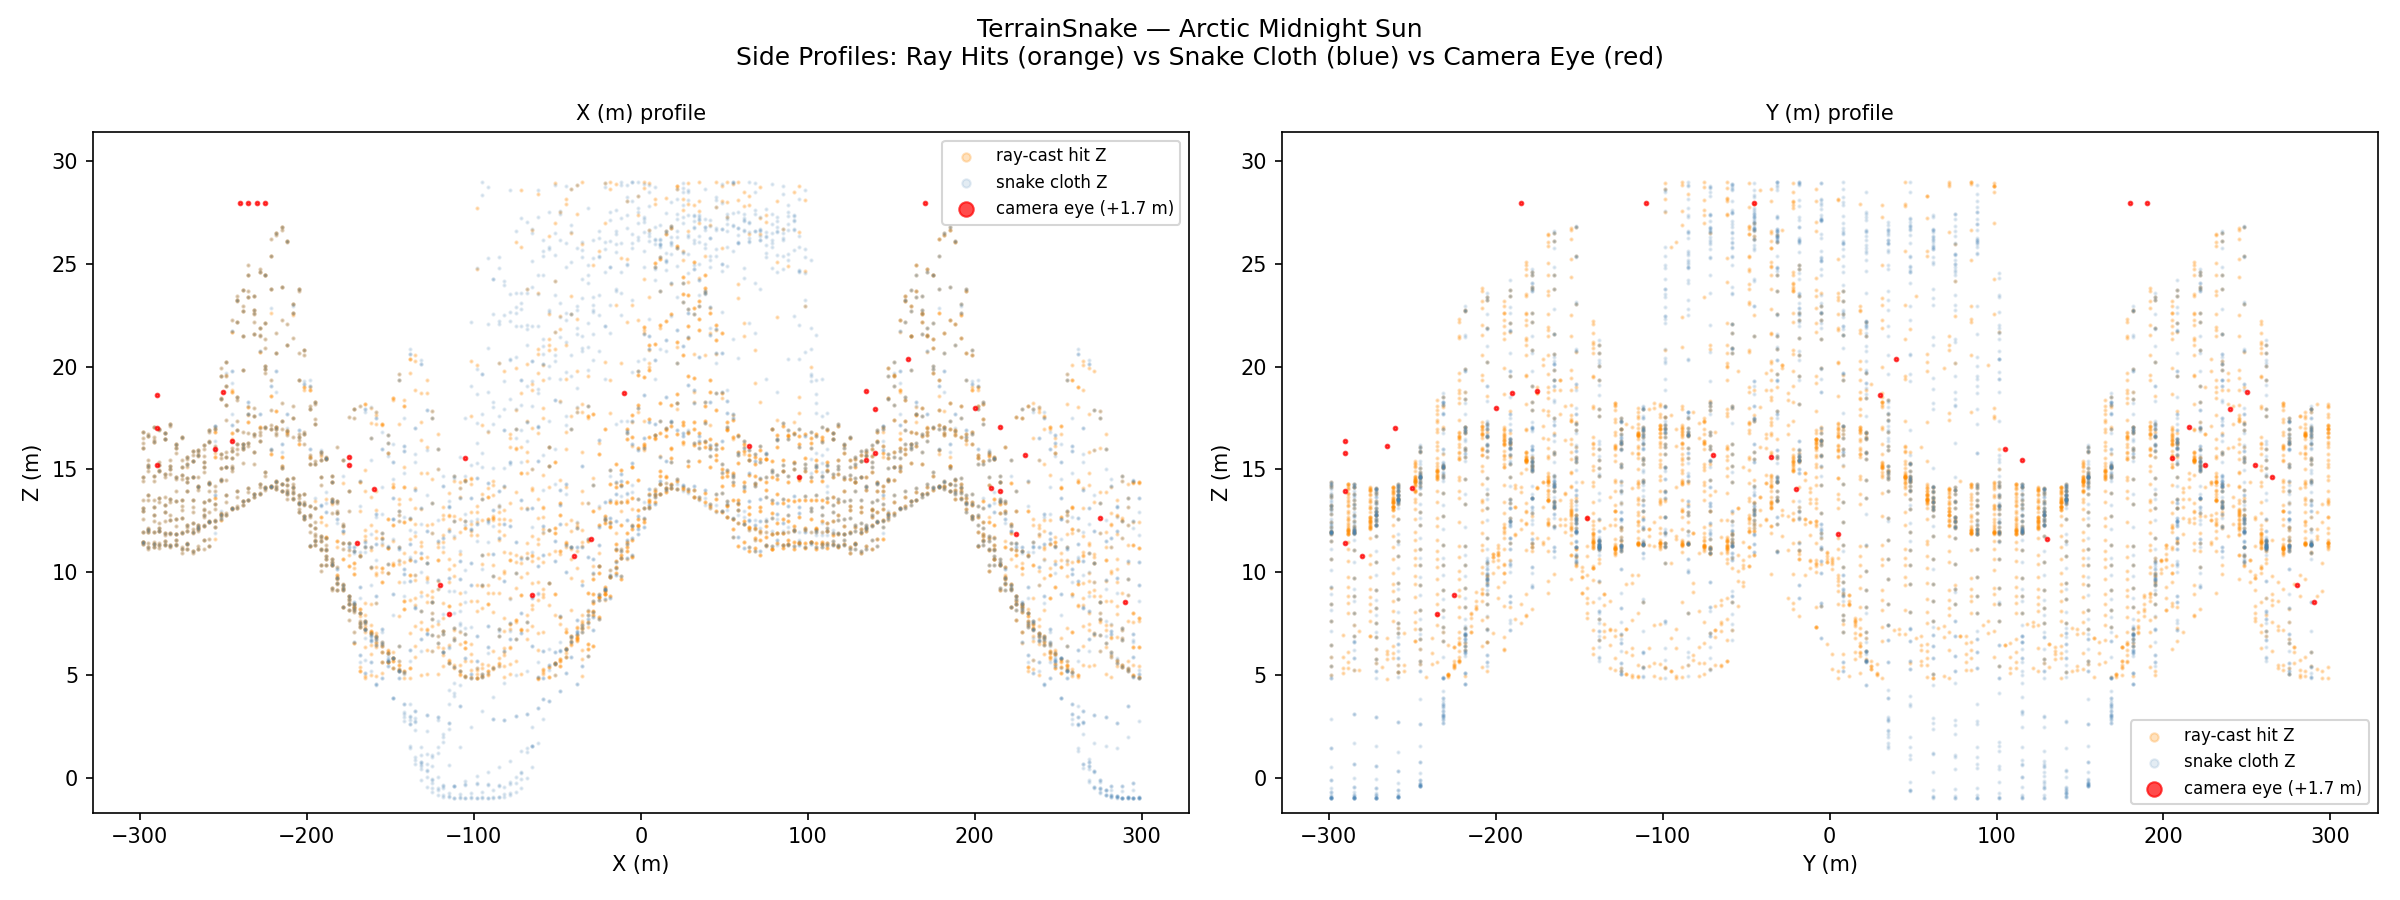
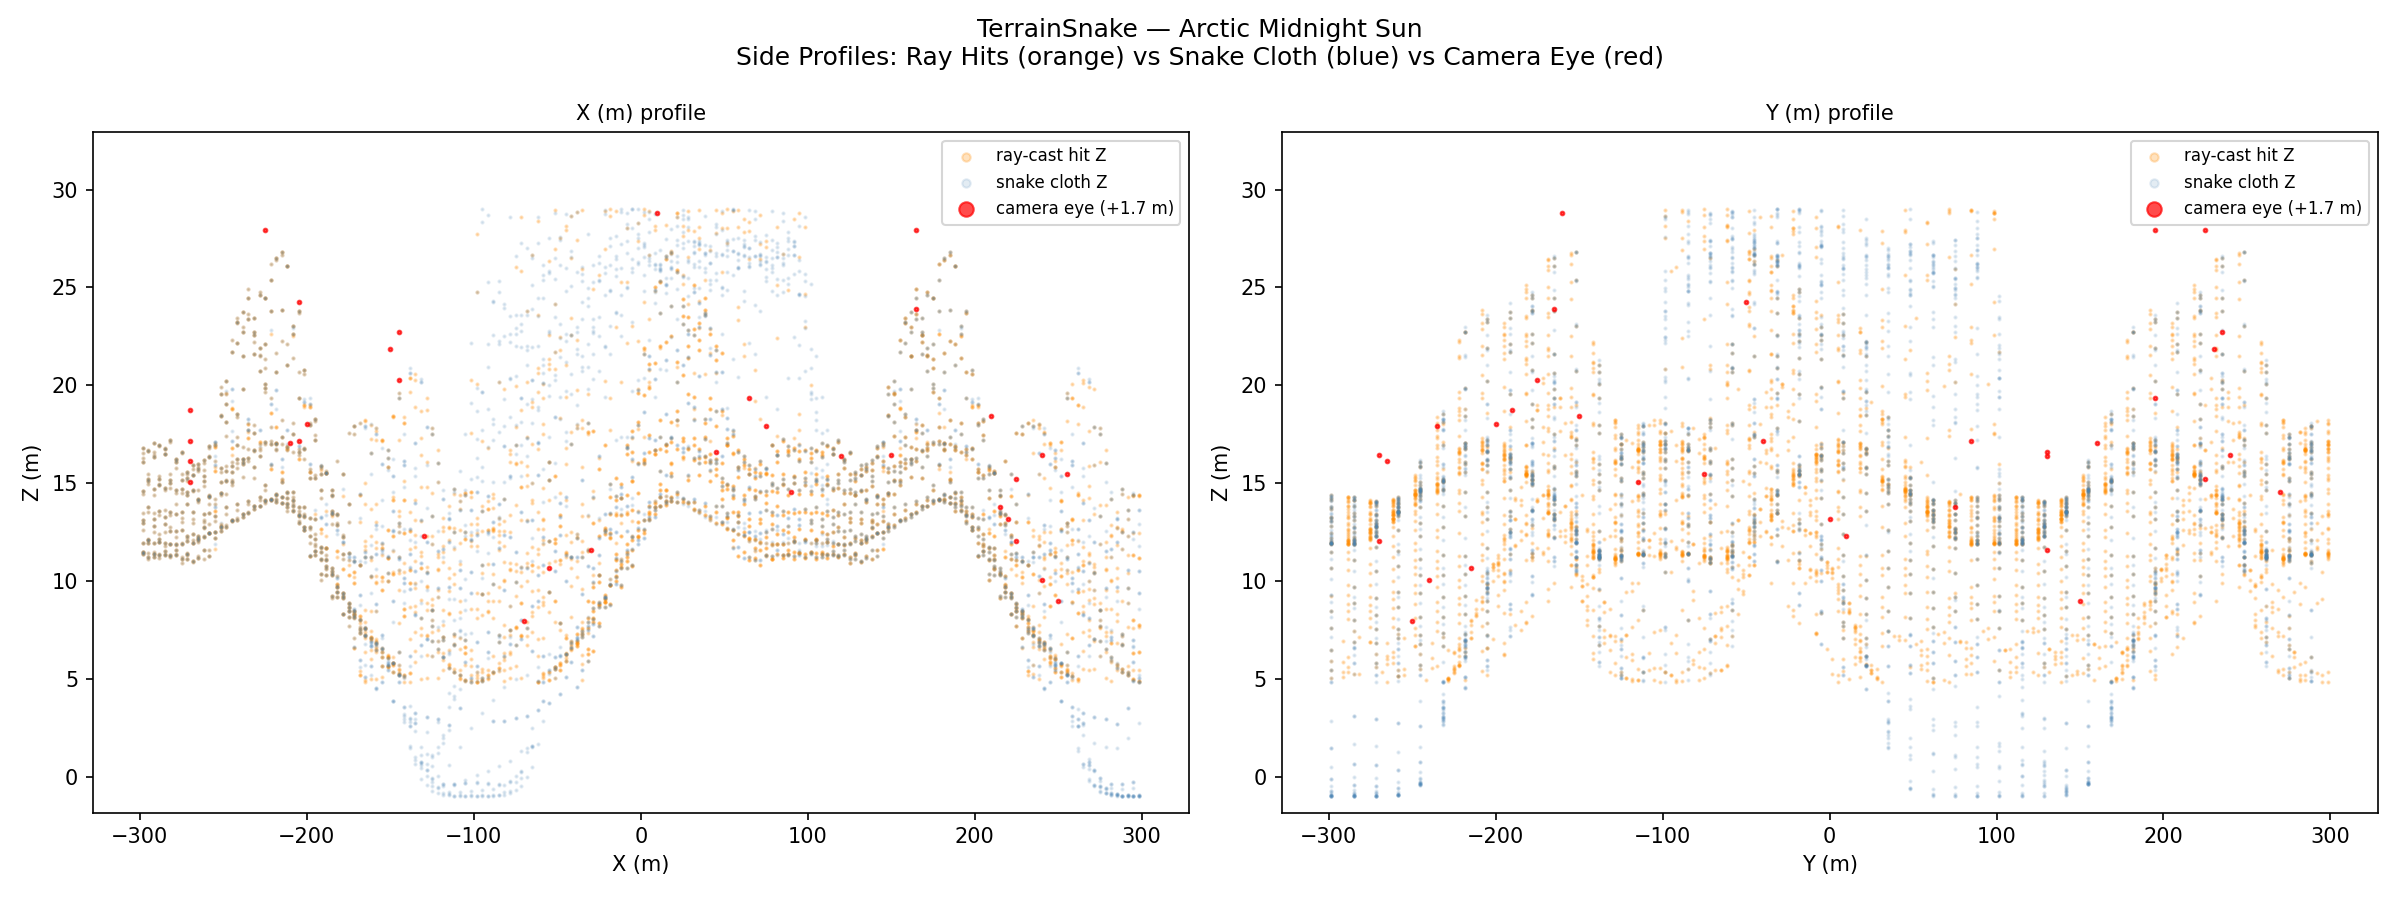
docs(forest_paths_v3): black frame fix + voxel walkability viz results
- 20260511 result MD for forest_paths terrain v3: documents boundary-margin
  black frame fix (5574348), path_plan --blend fix (303705b), figure_6
  voxel walkability overlay (9c73b6a), and waypoint coord fix (92fb5f3)
- Updated figures 1/2/5 with correct waypoint world positions (vg_res=20)
- New figure_6: green=628 walkable, red=243 excluded (102 boundary + 141 scatter)
- Black frame verification table: frame_0438 mean=45.7 ✅, frame_0767 mean=10.2 ✅

diff --git a/docs/20260511_WalkthroughRenderer_ForestPaths_Terrain_V3_Results.md b/docs/20260511_WalkthroughRenderer_ForestPaths_Terrain_V3_Results.md
@@ -1,0 +1,184 @@
+# Forest Paths Walkthrough — Terrain v3: Black Frame Fix + Voxel Walkability Viz
+
+**Scene**: `forest_paths/forest paths.blend` (334 MB)
+**Date**: 2026-05-11
+**Config**: `configs/terrain_scene.json` — TerrainSnake Phase 1+2, Held-Karp path, Cycles render
+**Run host**: local Linux + pip bpy 4.5 + Windows Blender 4.5.7 LTS (Cycles, OptiX)
+**GPU**: NVIDIA GeForce RTX 5090
+**Previous run**: [Terrain v2 (2026-05-07)](20260507_WalkthroughRenderer_ForestPaths_Terrain_V2_Results.md)
+**Commits**: `c5a2b8d` (boundary-margin filter), `f33b134` (path_plan --blend), `31e66e5` (figure_6), `e428a3d` (waypoint coord fix)
+
+---
+
+## Changes from v2
+
+| | v2 | v3 |
+|---|---|---|
+| Black frames | frame_0438, frame_0767 **completely black** | **fixed** — mean=45.7 / mean=10.2 ✅ |
+| Raw terrain candidates | 824 | **871** (heightmap rebuild) |
+| Scatter-blocked columns | −125 | **−141** |
+| Boundary margin filter | — | **−102** (outermost 1 coarse cell per edge) |
+| Walkable candidates | 699 | **628** |
+| path_plan Step 3 | no `--blend` → particle detection always 0 | **`--blend` passed** → particle scatter visible |
+| Visualization figure_6 | — | **voxel walkability overlay** (green=walkable, red=excluded) |
+| Waypoint world coords | bug: converted with fine res (3.33 BU) | **fixed**: converted with coarse vg_res (20 BU) |
+
+---
+
+## Root Cause: Black Frames
+
+frame_0438 and frame_0767 were completely black. Both mapped to coarse cell `(ix=6, iy=0)` at the southern scene boundary (Y=−290 BU, 10 BU from the ±300 BU edge).
+
+The Infinigen terrain truncates at scene boundaries with a **vertical cliff wall**. The TerrainSnake cloth settled on the cliff face (valid `terrain_z_floor`≈9), making the cell appear as a legitimate walkable column. The camera placed there looked directly into the opaque black `background` boundary mesh and void → fully black render.
+
+Why other detection methods failed:
+
+| Attempted fix | Why it failed |
+|---|---|
+| Heightmap gradient (slope filter) | Cloth settles on entire cliff top — adjacent cell Z values similar, gradient ≈0.12 |
+| `ray_cast` surface-normal filter | Infinigen geometry-nodes terrain: all face normals nz≈0.001 in pip-bpy (base mesh not updated by displacement) |
+| `valid_domain` / NaN check | Cliff face is real geometry — ray hits it, `terrain_z_floor` is NOT NaN |
+
+**Fix**: `_filter_terrain_by_boundary_margin` — removes the outermost `terrain_boundary_margin=1` coarse cells on all 4 sides. Infinigen terrain always ends in a cliff at scene boundaries; one coarse cell (20 BU) is a sufficient buffer.
+
+---
+
+## Pipeline
+
+Phase 1 reused cached `terrain_snake.npz`. Phase 2 rebuilt from voxel_grid step with the boundary-margin filter added.
+
+**path_plan Step 3 fix**: previously invoked without `--blend`, so pip-bpy ran with an empty scene and `_ptcl_blocked` was always empty (particle scatter instances invisible). Now `--blend` is passed → particle detection fully functional. This does not affect the current forest_paths path (no trees within 210 BU of the black-frame cell) but prevents future path-through-tree issues in dense scenes.
+
+---
+
+## Voxel Grid + Walkable (Terrain Mode)
+
+| Parameter | Value |
+|-----------|-------|
+| Grid resolution | 20.0 BU/voxel |
+| Grid size | 30 × 30 × 2 |
+| Scene bounds (XY) | [−300, −300] … [+300, +300] BU |
+| Scene bounds (Z) | −3.8 … +27.0 BU |
+| Fine heightmap | 180 × 180 @ 3.33 BU → downsampled to 30 × 30 @ 20 BU |
+| Raw terrain candidates | 871 / 900 columns |
+| −scatter-blocked (particle filter) | **−141** |
+| −mesh-blocked (parity filter) | −0 |
+| −boundary margin (margin=1) | **−102** |
+| **Walkable candidates** | **628** |
+
+Filter breakdown (from `voxel_grid_rebuild4.log`):
+
+```
+[VoxelGrid] Terrain mode: 871/900 columns (30×30×2, res=20.00 BU)
+[VoxelGrid] Terrain particle filter: -141 scatter-blocked, 730 remain
+[VoxelGrid] Terrain mesh filter: -0 inside mesh, 730 remain
+[VoxelGrid] Terrain boundary-margin filter: margin=1, -102 boundary, 628 remain
+```
+
+---
+
+## Path Planning — Held-Karp
+
+| Parameter | Value |
+|-----------|-------|
+| Algorithm | Held-Karp exact open-path TSP |
+| Waypoints | 20 (farthest-point sampling, seed 42) |
+| Path connectivity | 26-connected BFS |
+| Total path points | 505 |
+| Path Z range | 6.2 … 28.3 BU |
+| First waypoint | forced to scene camera cell (62, −7, 19) → coarse (18, 14, 0) |
+
+---
+
+## Render
+
+| Parameter | Value |
+|-----------|-------|
+| Frames | 1 000 |
+| FPS | 12 |
+| Duration | 83.3 s |
+| Resolution | 640 × 480 |
+| Render engine | Cycles |
+| Samples | 64 spp + adaptive (threshold 0.01, min 4) |
+| Denoiser | OPTIX (GPU-side, RTX 5090) |
+| Walk speed | 5.0 BU/s |
+| Camera height | 1.7 BU |
+
+### Black Frame Verification
+
+| Frame | Before fix | After fix |
+|-------|-----------|-----------|
+| frame_0438 | mean=0, black_pct=100% ❌ | **mean=45.7, black_pct=0%** ✅ |
+| frame_0767 | mean=0, black_pct=100% ❌ | **mean=10.2, black_pct=48%** ✅ (forest shade, normal) |
+
+---
+
+## Figures
+
+### Figure 0 — Initial vs Final Snake
+
+![figure_0](assets/forest_paths_terrain_v1/figure_0_initial_vs_final.png)
+
+### Figure 1 — Top-Down Coverage + Path
+
+![figure_1](assets/forest_paths_terrain_v1/figure_1_top_down.png)
+
+### Figure 2 — Side Profiles
+
+![figure_2](assets/forest_paths_terrain_v1/figure_2_side_profiles.png)
+
+### Figure 3 — Camera-Anchored Bridging Demo
+
+![figure_3](assets/forest_paths_terrain_v1/figure_3_bridging_demo.png)
+
+### Figure 4 — Convergence
+
+![figure_4](assets/forest_paths_terrain_v1/figure_4_convergence.png)
+
+### Figure 5 — Walkthrough Path (XY top-down)
+
+![figure_5](assets/forest_paths_terrain_v1/figure_5_walkthrough_path.png)
+
+### Figure 6 — Voxel Walkability Overlay *(new)*
+
+Green = walkable (628 cells). Red = valid terrain but excluded by filters (243 cells: 102 boundary margin + 141 scatter-blocked).
+
+![figure_6](assets/forest_paths_terrain_v1/figure_6_voxel_walkability.png)
+
+---
+
+## Walkthrough GIF
+
+![forest_paths terrain v3 walkthrough](assets/forest_paths_terrain_v1/forest_paths_terrain_v1_walkthrough.gif)
+
+*1 000 frames, 12 fps*
+
+## Combined GIF (path overlay)
+
+![forest_paths terrain v3 combined](assets/forest_paths_terrain_v1/forest_paths_terrain_v1_walkthrough_combined.gif)
+
+---
+
+## Files
+
+| Content | Path |
+|---------|------|
+| Voxel grid | `results/forest_paths_terrain_v1/voxel_grid.npz` |
+| Terrain snake | `results/forest_paths_terrain_v1/terrain_snake.npz` |
+| Walkable | `results/forest_paths_terrain_v1/walkable.npz` |
+| Path | `results/forest_paths_terrain_v1/path.npz` |
+| Run log | `results/forest_paths_terrain_v1/run.log` |
+| Rebuild log (final) | `results/forest_paths_terrain_v1/voxel_grid_rebuild4.log` |
+| Walkthrough blend | `results/forest_paths_terrain_v1/forest paths_walkthrough.blend` |
+| Walkthrough GIF | `docs/assets/forest_paths_terrain_v1/forest_paths_terrain_v1_walkthrough.gif` |
+| Combined GIF | `docs/assets/forest_paths_terrain_v1/forest_paths_terrain_v1_walkthrough_combined.gif` |
+| Combined MP4 | `docs/assets/forest_paths_terrain_v1/forest_paths_terrain_v1_walkthrough_combined.mp4` |
+
+---
+
+## Notes
+
+- **Cliff-edge black frames**: Infinigen terrain boundary = vertical cliff wall. Cloth Z at cliff face is numerically valid, but camera placed there faces void → black render. Boundary margin is the only reliable fix — ray_cast normals and heightmap gradients both fail to distinguish cliff-top from flat terrain in pip-bpy.
+- **Forest areas marked non-walkable**: The particle filter uses the full tree bounding box (`max(dimensions) * 0.5`), which includes the canopy. At 20 BU coarse resolution a single pine tree can block 1–2 adjacent cells. Dense forest patches are effectively non-walkable at this grid scale. To allow paths between trees, reduce `particle_block_margin` (< 1.0) or halve `grid_resolution` to 10 BU (4× more cells, slower planning).
+- **Waypoint visualization bug (fixed)**: Prior to commit `e428a3d`, waypoints in all figures were plotted at 1/6 their correct world position because they were converted using fine terrain resolution (3.33 BU) instead of coarse voxel resolution (20 BU). All figures now use `vg_res` for the conversion.
+- **path_plan particle detection**: Now correctly receives the blend file (commit `f33b134`). For forest_paths this has no path effect (no scatter trees near the path), but prevents path-through-tree issues in future dense-vegetation renders.
